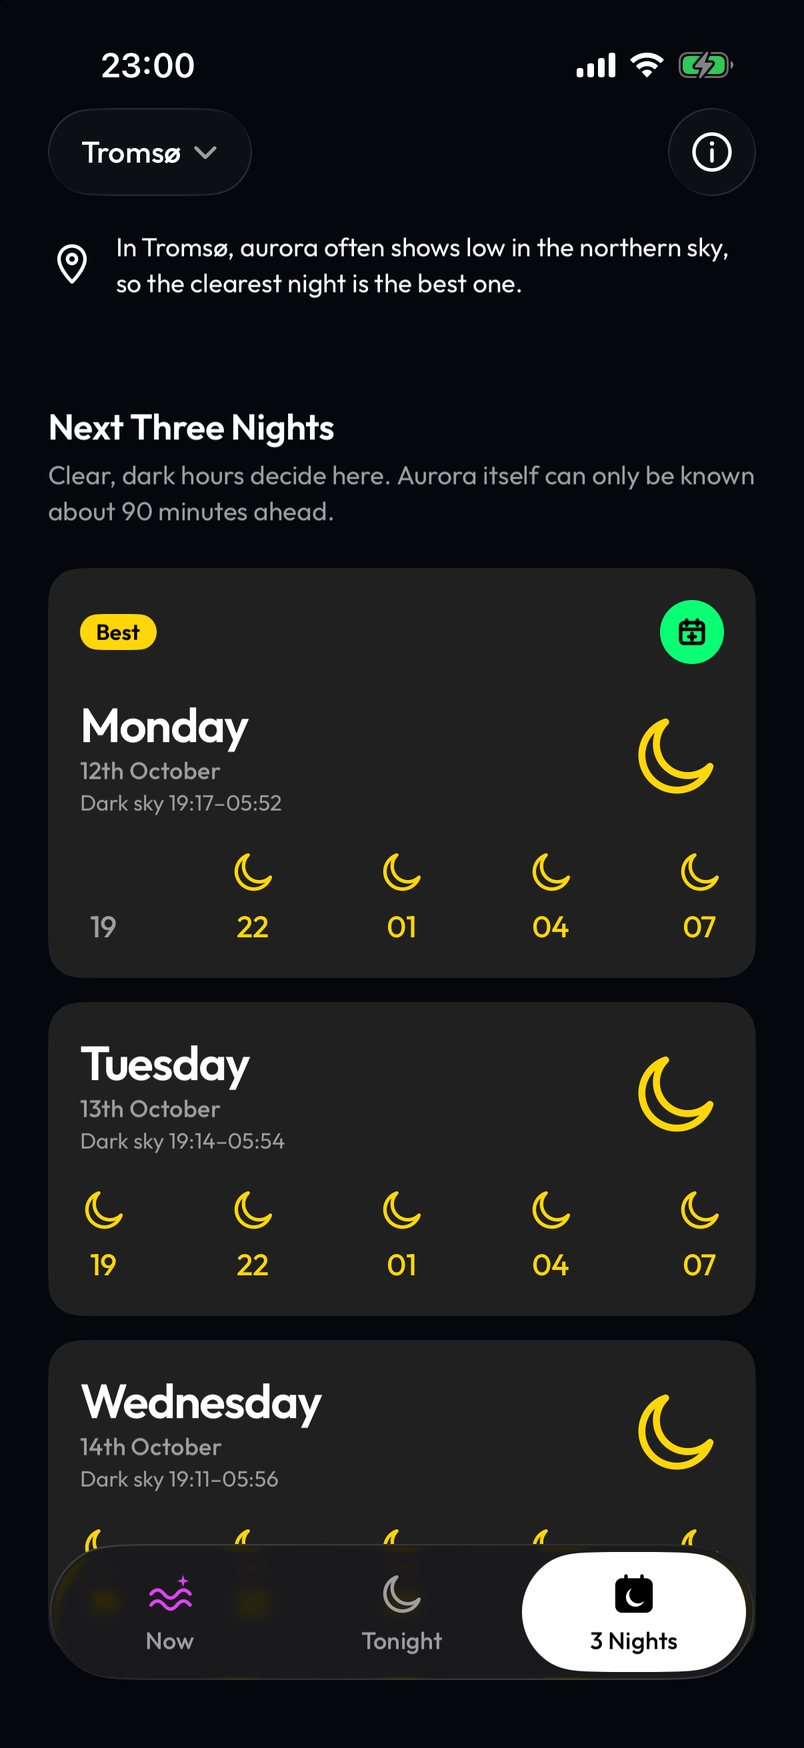
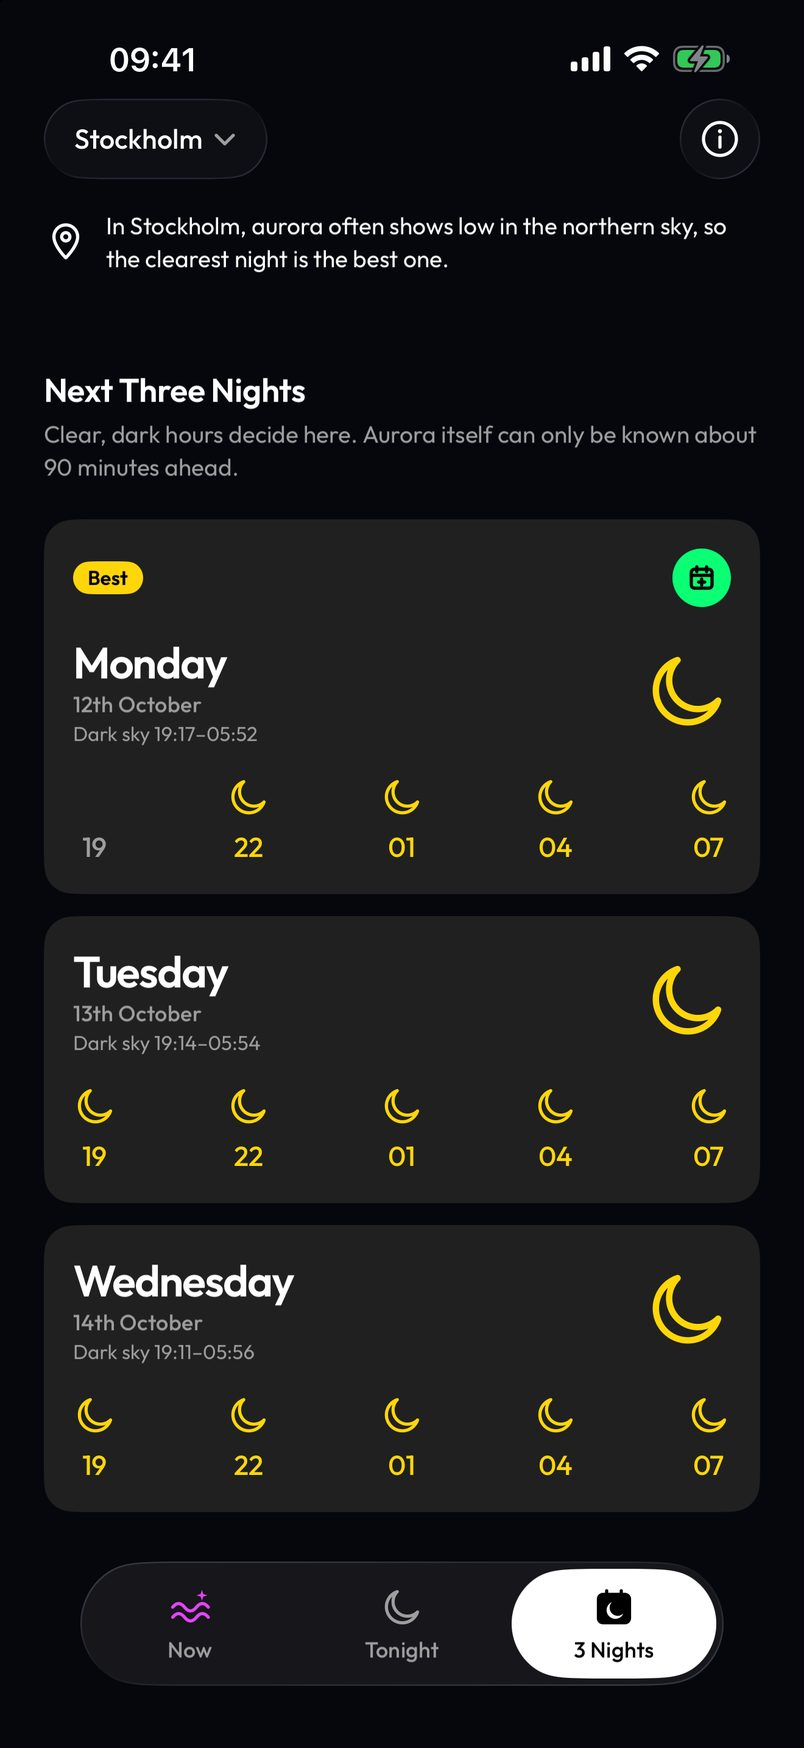
Recapture the site's 3 Nights screenshot to match Now and Tonight
The 3 Nights image was the 1.0 capture (Tromsø, 23:00 in the status bar).
It is now captured from the current Debug build with the same sample,
place and clock as the 1.0.1 App Store set (promising-now, Stockholm,
09:41), so the phone no longer changes city and time while scrolling.
The screen-reader description names Stockholm for Now, as the image shows.

Changed region(s): [[0.0311, 0.2162, 0.9639, 0.9886], [0.0622, 0.0, 0.9328, 0.1854], [0.0933, 0.0309, 0.2799, 0.0927]]

diff --git a/site/index.html b/site/index.html
@@ -132,7 +132,7 @@
       </div>
     </div>
   </div>
-  <p class="sr-only">Screens of the Zorja app: Now says "Go Out Right Now." in Tromsø, Tonight shows each hour from sunset to sunrise as a circle, and 3 Nights tags the best of the next three nights.</p>
+  <p class="sr-only">Screens of the Zorja app: Now says "Go Out Right Now." in Stockholm, Tonight shows each hour from sunset to sunrise as a circle, and 3 Nights tags the best of the next three nights.</p>
 
   <section id="tonight" class="check" aria-labelledby="check-title">
     <h2 id="check-title" class="title reveal">What’s Tonight Like<br>Where You Are?</h2>
